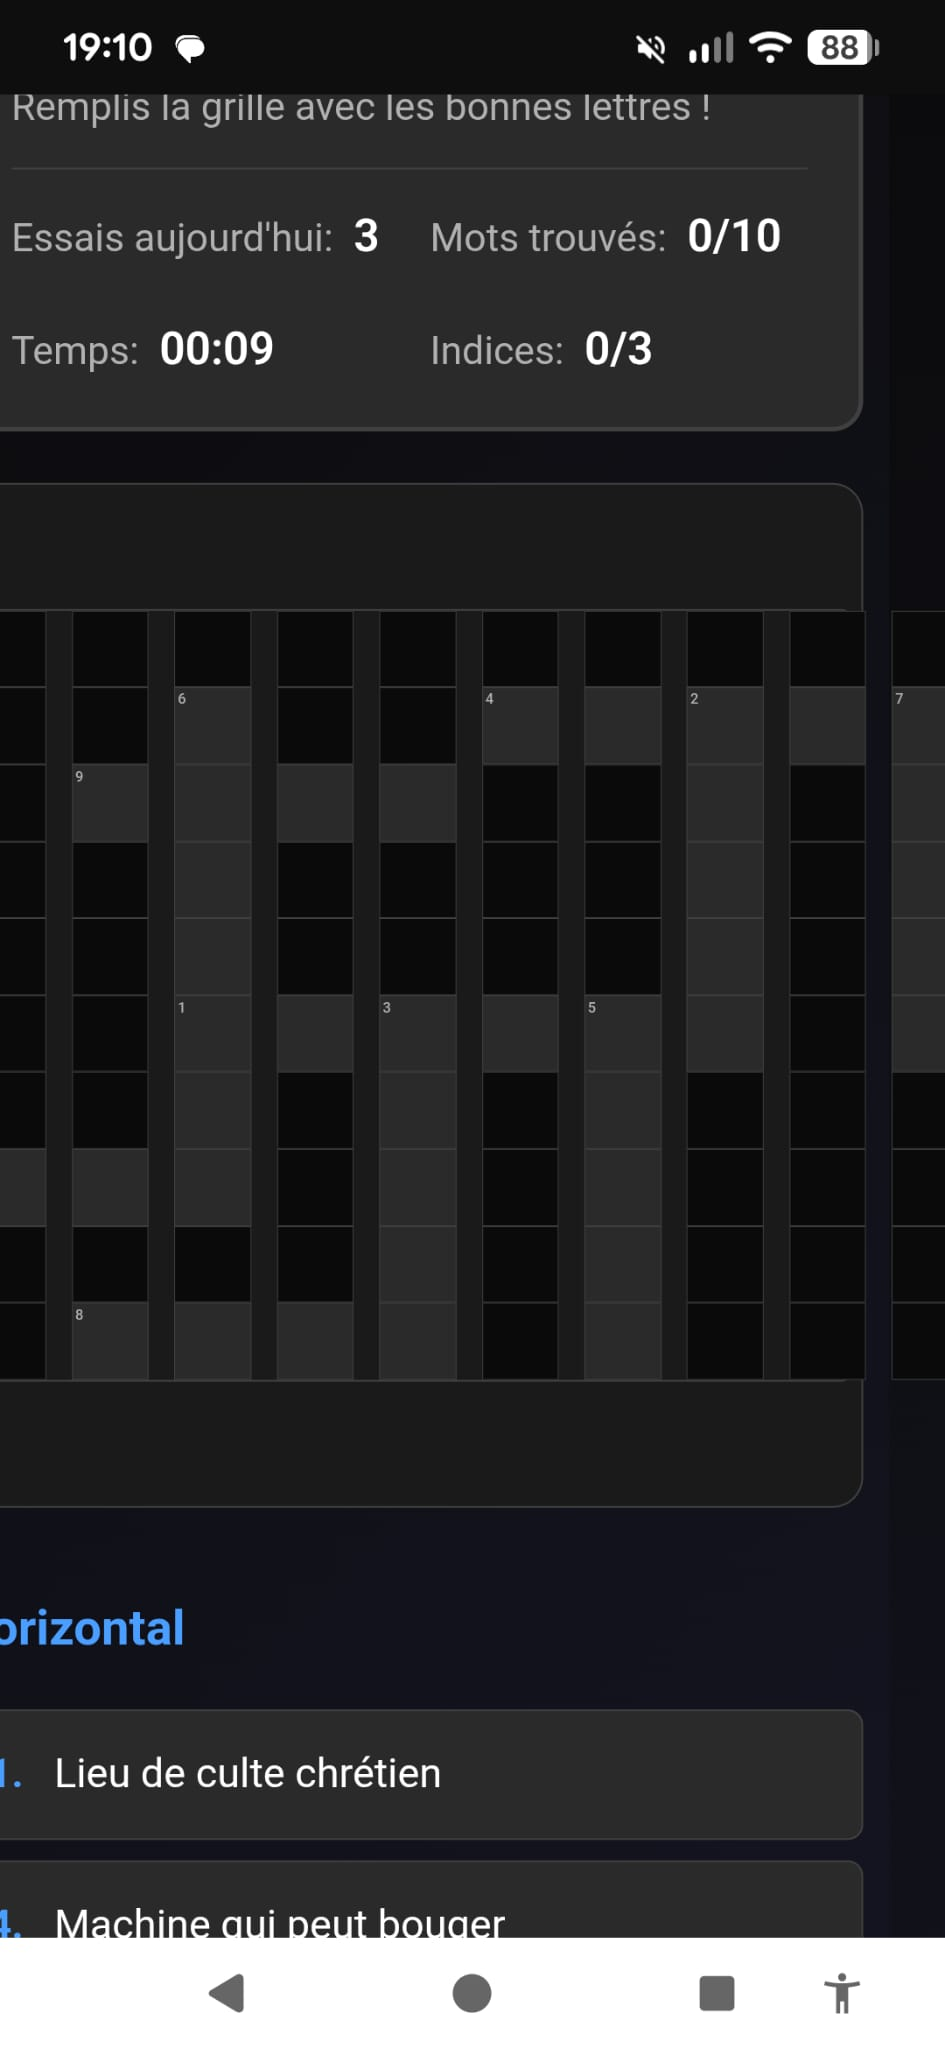
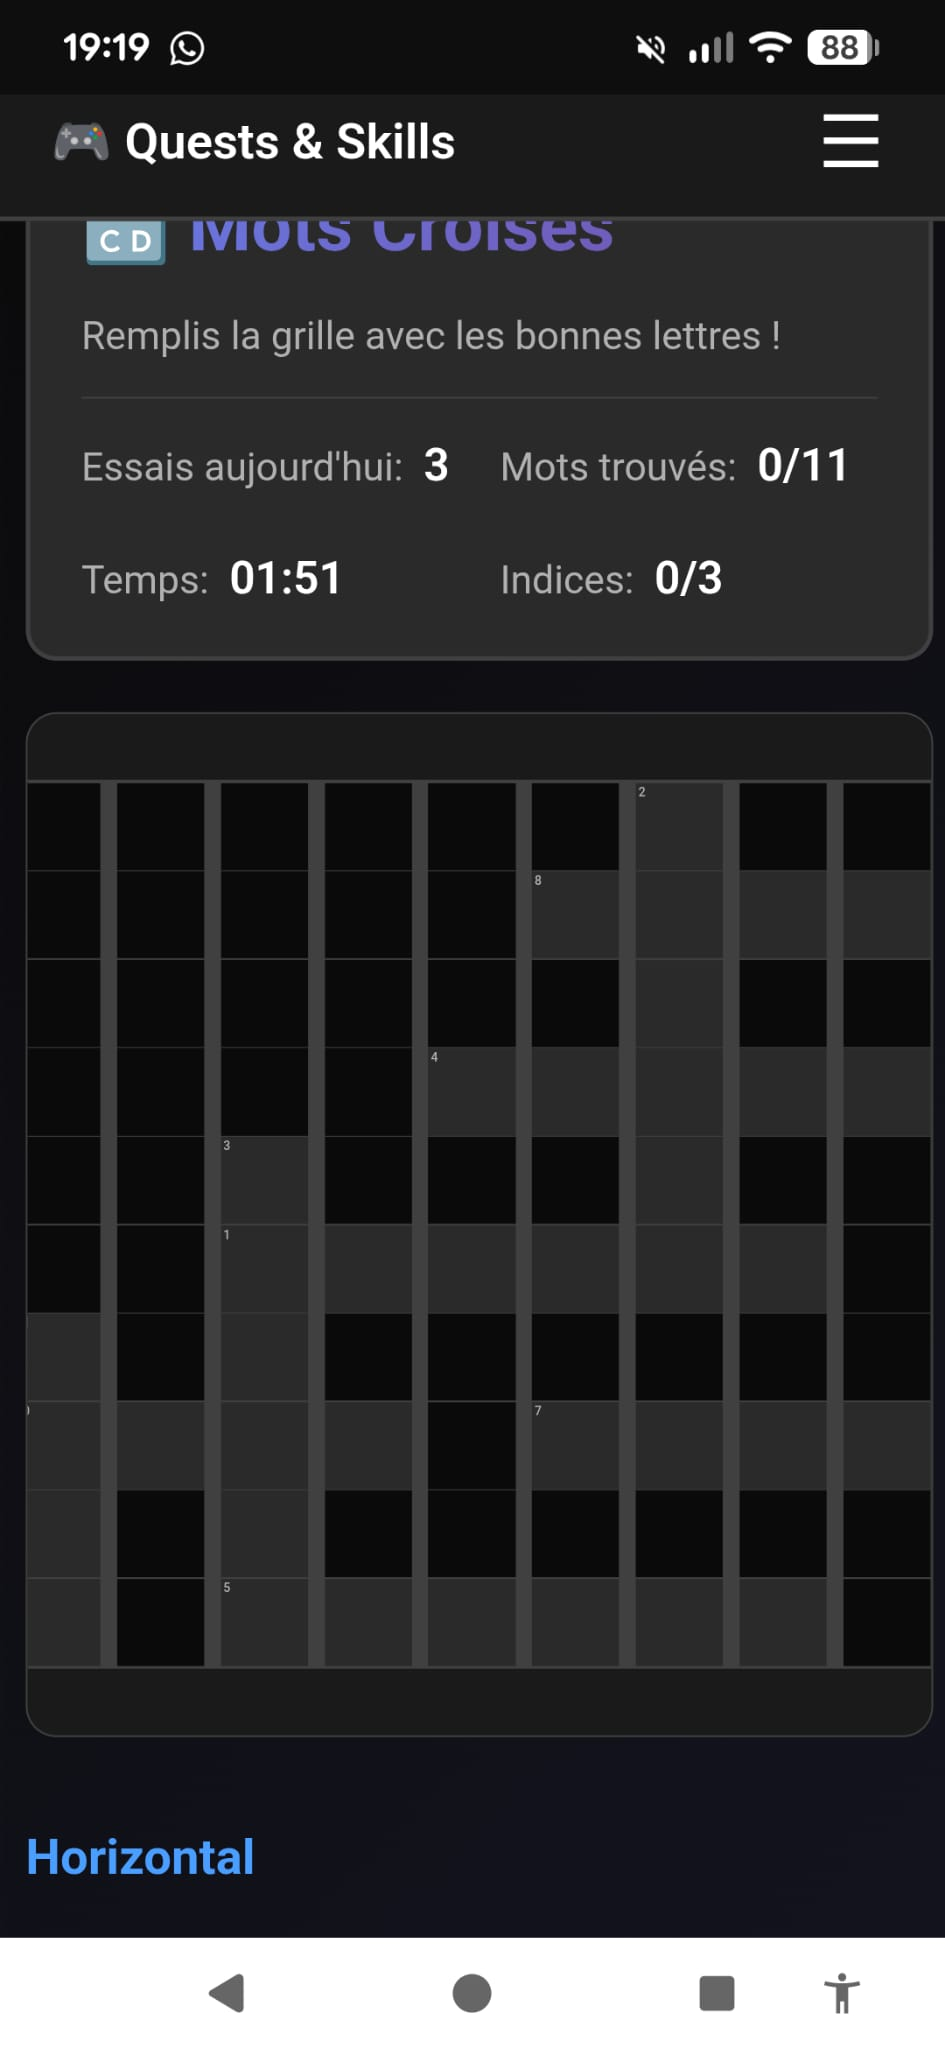
fix: supprimer toutes les bordures des cellules
- Retirer border des cellules (desktop et mobile)
- Remettre gap à 1px (minimum lisible)
- Seul le gap crée les séparations maintenant
- Ajuster calcul: (100vw - 1rem - 13px) / 10
- Lignes de 1px uniformes et propres

🤖 Generated with [Claude Code](https://claude.com/claude-code)

Changed region(s): [[0.0, 0.0, 1.0, 0.9688], [0.8899, 0.8438, 0.9206, 0.9375]]

diff --git a/modules/crossword/css/crossword.css b/modules/crossword/css/crossword.css
@@ -26,7 +26,7 @@
     width: 40px;
     height: 40px;
     background: var(--bg-card);
-    border: 1px solid var(--border-color);
+    border: none;
     position: relative;
     display: flex;
     align-items: center;
@@ -145,10 +145,10 @@
 
     #crossword-grid {
         margin: 0 auto;
-        gap: 0.5px;
+        gap: 1px;
         background: var(--border-color);
         border: 1px solid var(--border-color);
-        padding: 0.5px;
+        padding: 1px;
         /* Calcul: 100vw - (padding gauche 0.5rem + padding droit 0.5rem) */
         width: calc(100vw - 1rem);
         max-width: 400px;
@@ -156,13 +156,12 @@
     }
 
     .crossword-cell {
-        /* Calcul: (largeur grille - bordure 2px - padding 1px - gaps 4.5px) / 10 */
-        width: calc((100vw - 1rem - 7.5px) / 10);
-        height: calc((100vw - 1rem - 7.5px) / 10);
+        /* Calcul: (largeur grille - bordure 2px - padding 2px - gaps 9px) / 10 */
+        width: calc((100vw - 1rem - 13px) / 10);
+        height: calc((100vw - 1rem - 13px) / 10);
         max-width: 36px;
         max-height: 36px;
         font-size: clamp(0.65rem, 2.2vw, 0.9rem);
-        border: none;
     }
 
     .crossword-cell input {
@@ -192,8 +191,8 @@
     }
 
     .crossword-cell {
-        width: calc((100vw - 0.5rem - 7.5px) / 10);
-        height: calc((100vw - 0.5rem - 7.5px) / 10);
+        width: calc((100vw - 0.5rem - 13px) / 10);
+        height: calc((100vw - 0.5rem - 13px) / 10);
         max-width: 34px;
         max-height: 34px;
         font-size: clamp(0.6rem, 2vw, 0.8rem);
